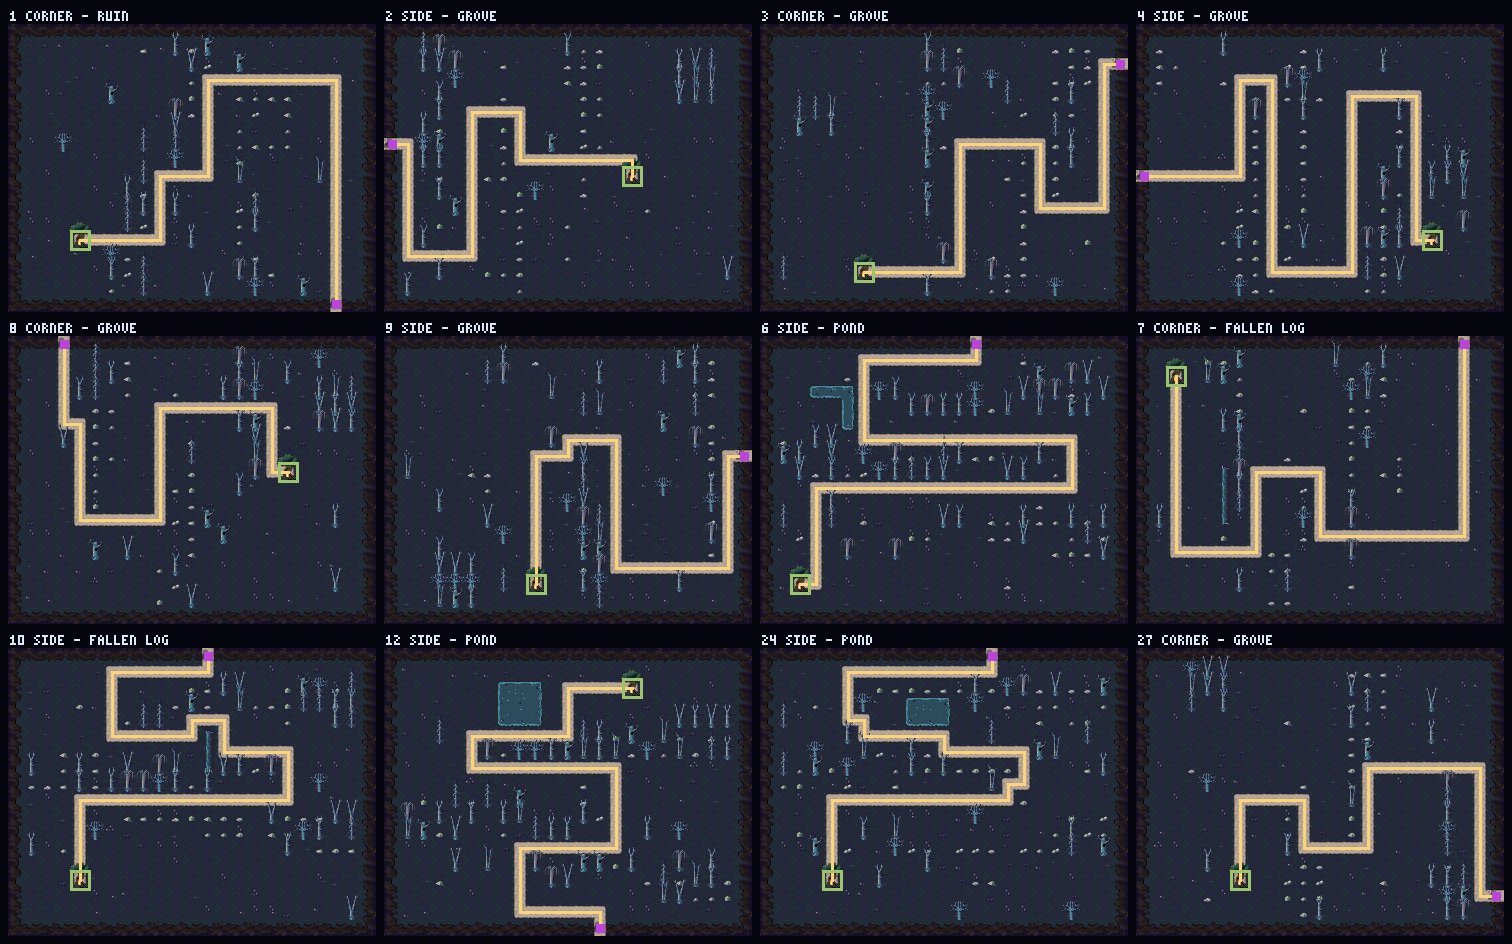
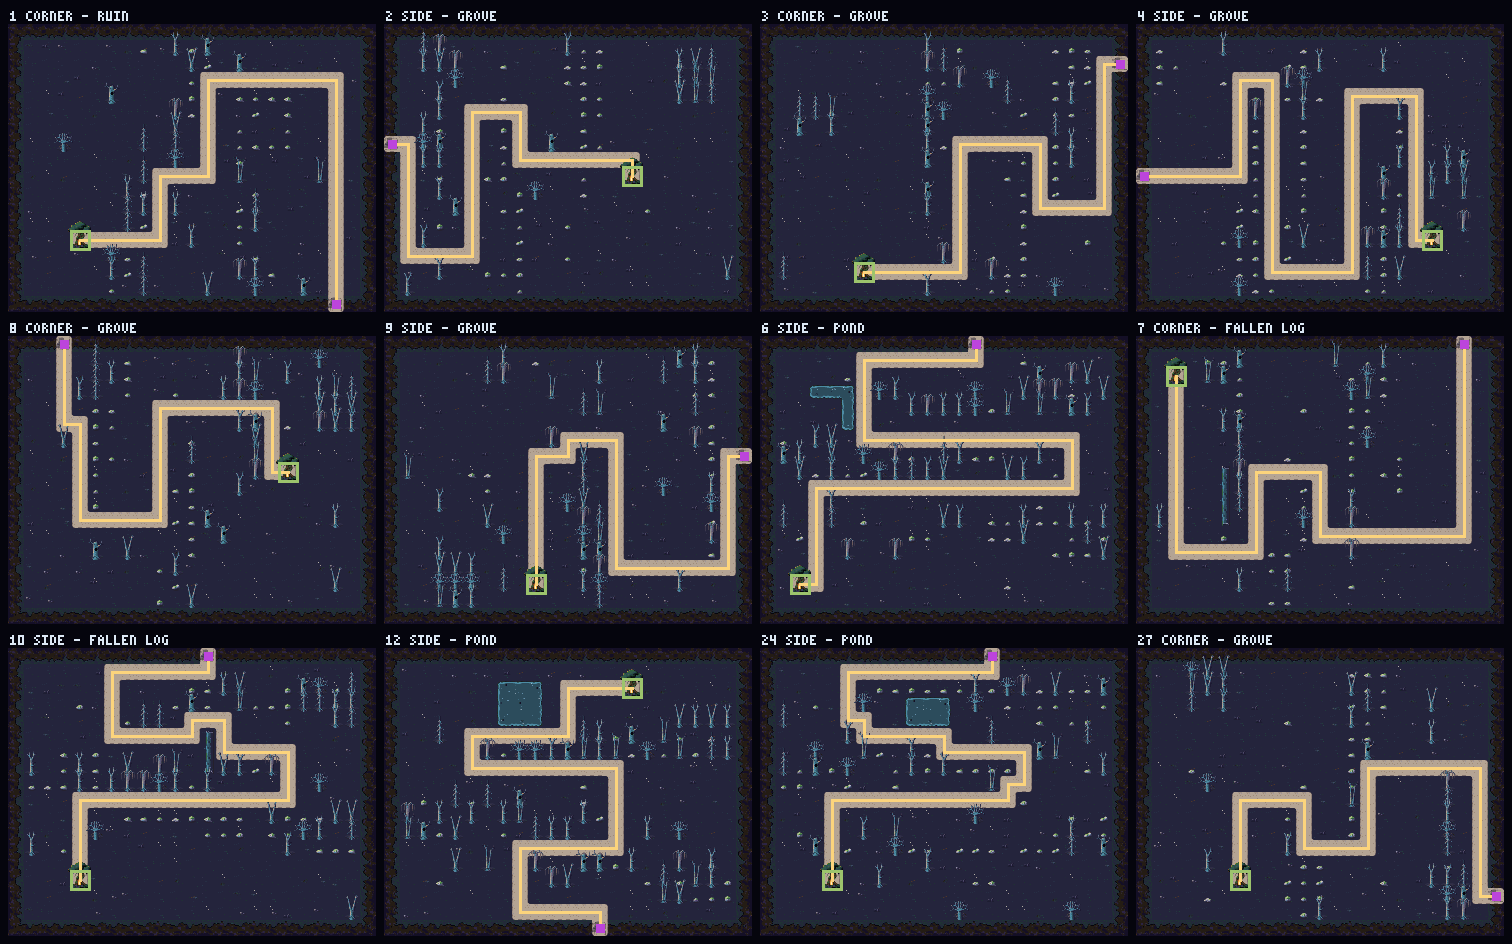
The half-cell path on a dual grid (environment_assets.md 'Half-cell grid: environment plan' 1; Environment Assets' path_dual.png, c9212846): the path mask is every half cell a nightmare's body covers along the route; a 32 px TileMapLayer 16 px up-left (PathGenerator.dual_layer, behind the path layer

diff --git a/Project_T/CLAUDE.md b/Project_T/CLAUDE.md
@@ -386,7 +386,7 @@ accessibility, Steam achievements (milestones map to them). Acts 3–4 and all f
   `tiles`, and the `cleared_source_id` mark left when the player clears one: tended stump, moved hollow).
   Tiles: `environment_tiles.gd` (`EnvironmentTiles`) builds one TileSet from `assets/environment/<act>/`
   (one atlas source per sheet, fixed source ids) shared by all three layers; the path picks
-  `path.png` column = neighbour mask. The map is an island in a starry void: border cells are
+  a 32 px dual grid (`PathGenerator.dual_layer`, 16 px off the half grid: `path_dual.png` column = corner mask of the half cells a nightmare body covers, `dual_mask`; `path.png` only for the start's bridge join). The map is an island in a starry void: border cells are
   `island_edge` rim tiles (neighbour mask; no grass under them), cliffs under the bottom row, a rope
   bridge out from the start (shared sheets in `assets/environment/dream/`), and `DreamVoid`
   (`dream_void.gd`: Parallax2D sky + stars behind the map, islets). Mist on the start, `Heartwood` (`heartwood.gd`, Sprite2D) on the end shows leaves lost and mirrors the Grove (stage by `grown_share`, a glint per planted node, a dream-fruit per Memory; demo: stage 0, 3 fruit; `tests/test_heartwood_grove.gd`) (its warm light and additive
